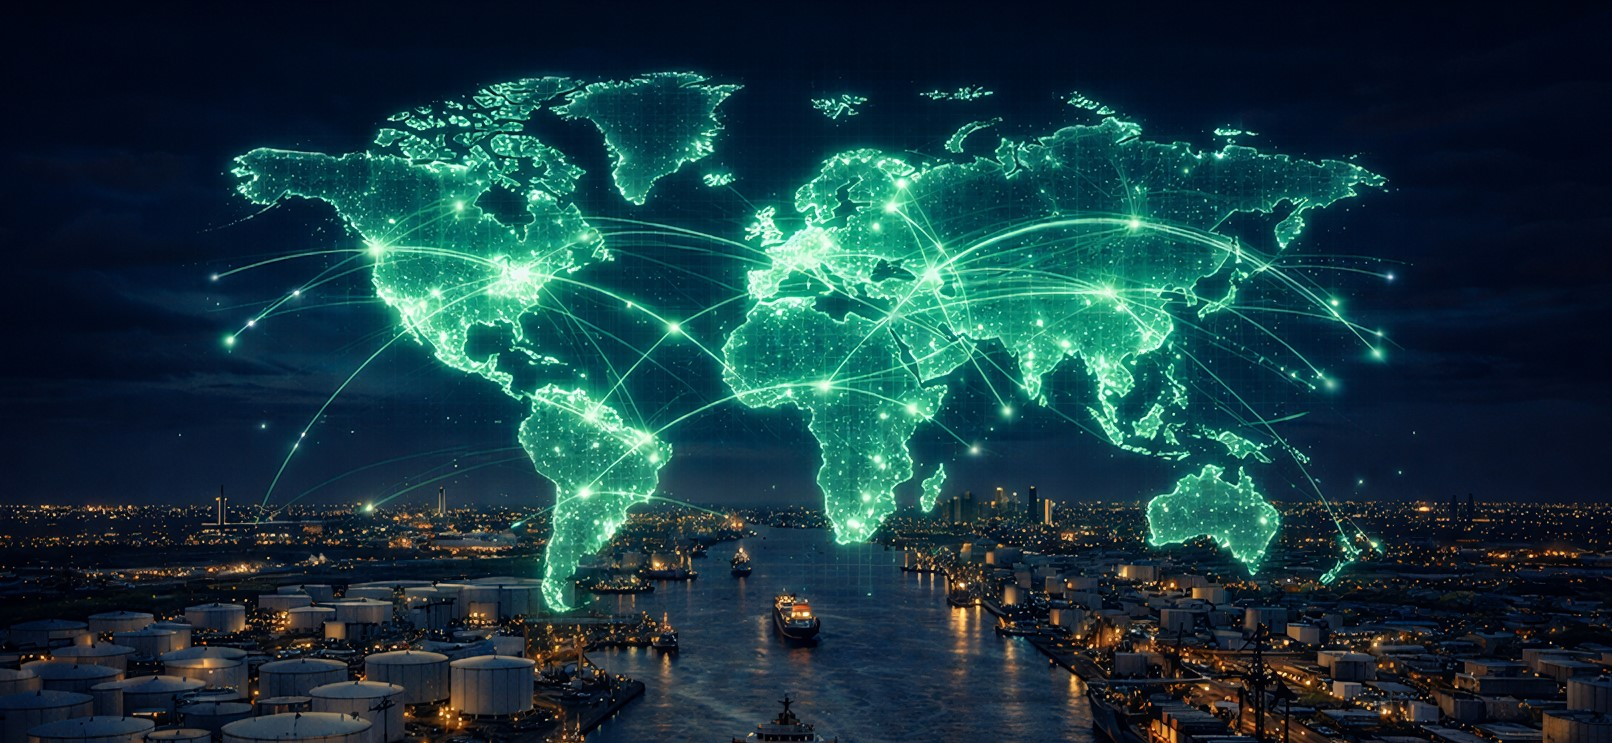
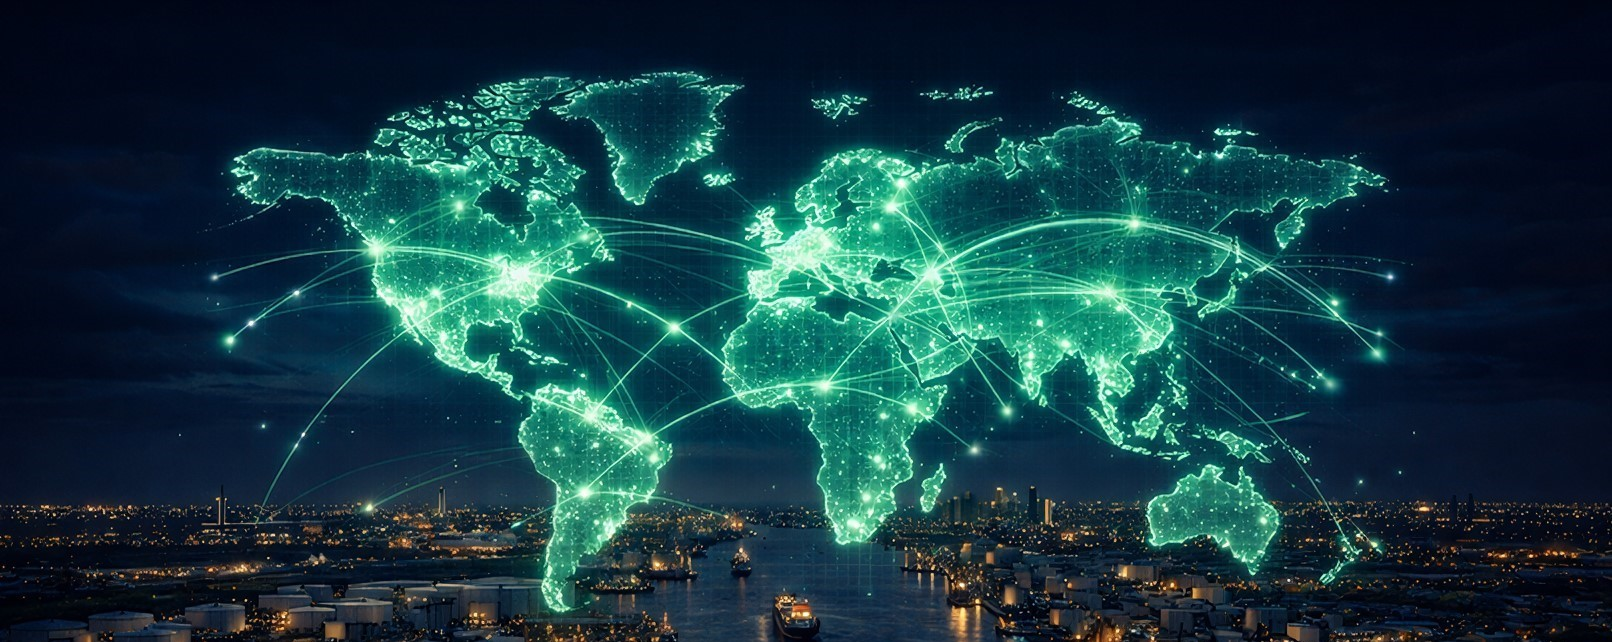
typo
edited typo

diff --git a/index.html b/index.html
@@ -50,7 +50,7 @@ CREATED BY ENERLINK
         <div class="h-eyebrow">What we do</div>
         <h1 class="serif hero-title">Globally active, human-driven</h1>
         <p class="hero-lede">
-         Enerlink Pte. Ltd., is a Singapore-based oil trading company operating across diverse product lines and global 
+         Enerlink Pte. Ltd. is a Singapore-based oil trading company operating across diverse product lines and global 
          markets.  With a strategic focus on Asia, the Middle East, and Europe, we serve a wide network 
          of customers and suppliers, including Major Oils, National Oil Companies, and Giant Trading Firms.
 
